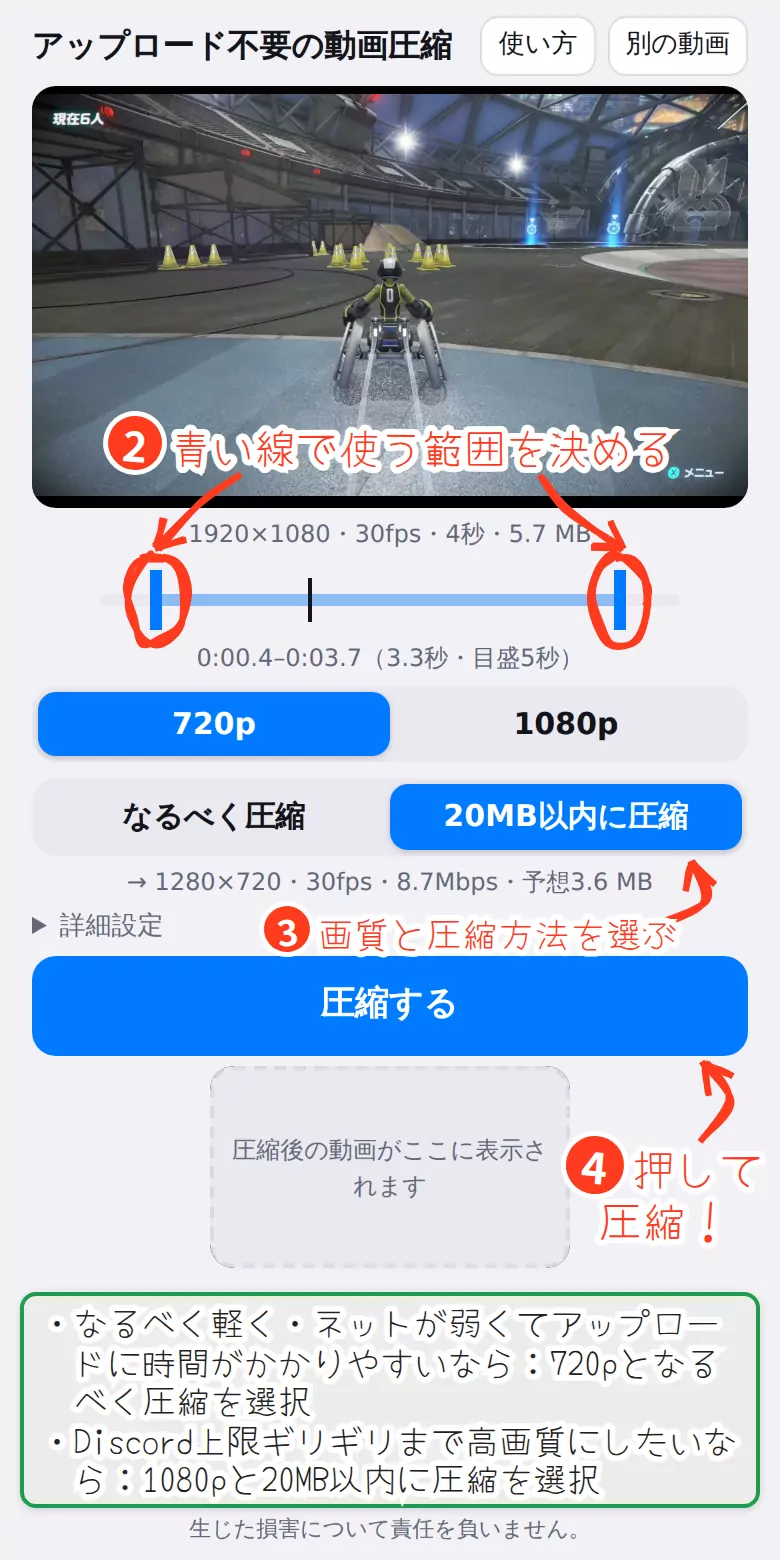
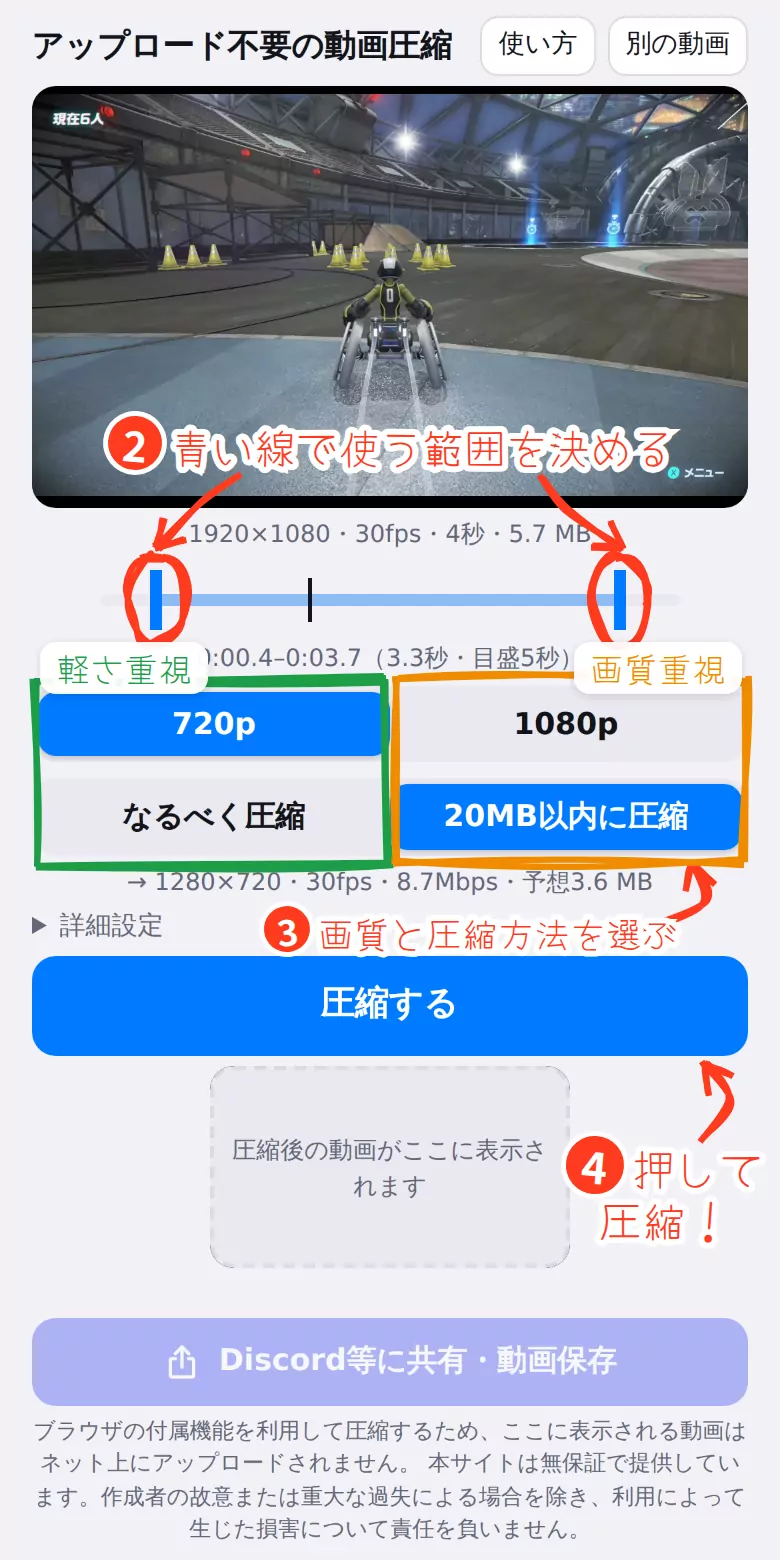
docs: 説明書の2枚目で、左の列を「軽さ重視」、右の列を「画質重視」として色分けで囲む
下にあった選び方の文章の枠は外し、ボタンのすぐそばで説明する。

Claude-Session: https://claude.ai/code/session_01Kjx2uZRnB9w1XNEyRL87P8

Changed region(s): [[0.0, 0.8, 0.9846, 0.9846], [0.0308, 0.4, 0.9846, 0.5846]]

diff --git a/public/index.html b/public/index.html
@@ -917,7 +917,7 @@
     </div>
     <div class="help-slides" id="helpSlides" tabindex="0" aria-label="手順の画像（横にスワイプで次の画像）">
       <img data-src="./help/help-1.webp" width="390" height="780" alt="①「動画を選択」をタップして動画を選ぶ">
-      <img data-src="./help/help-2.webp" width="390" height="780" alt="②青い線で使う範囲を決める、③画質と圧縮方法を選ぶ、④「圧縮する」を押す">
+      <img data-src="./help/help-2.webp" width="390" height="780" alt="②青い線で使う範囲を決める、③画質と圧縮方法を選ぶ（左の列の720p・なるべく圧縮は軽さ重視、右の列の1080p・20MB以内に圧縮は画質重視）、④「圧縮する」を押す">
       <img data-src="./help/help-3.webp" width="390" height="780" alt="小さくなった動画ができたら、⑤「Discord等に共有・動画保存」でDiscordに送るか写真に保存する">
       <!-- 別のページ（開いたときに初めて読み込む）。アプリの画面はそのまま残るよう、新しいタブで開く -->
       <a class="help-card" href="./shortcut.html" target="_blank" rel="noopener">

diff --git a/public/sw.js b/public/sw.js
@@ -8,7 +8,7 @@
  */
 'use strict';
 
-var CACHE = 'video-compressor-under20mb-v56';
+var CACHE = 'video-compressor-under20mb-v57';
 var NETWORK_TIMEOUT_MS = 3000;   // ネット優先のとき、ネットの応答をこれだけ待ってからキャッシュを使う
 
 // Cloudflare Pages のプレビュー（<ブランチ名>.<プロジェクト名>.pages.dev）と手元の確認環境だけネット優先にする
